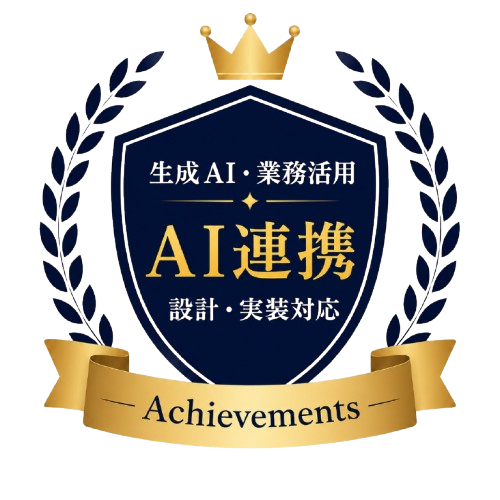
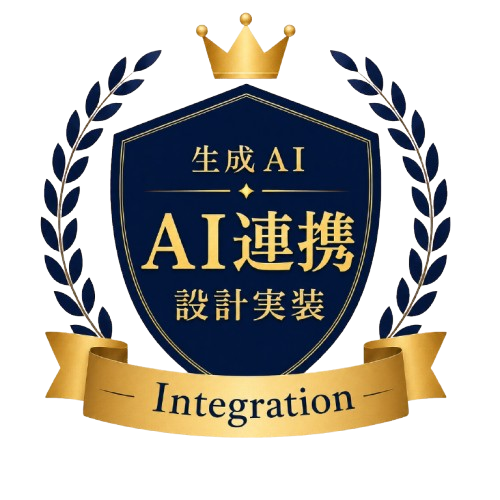
feat/completed firstview

Changed region(s): [[0.06, 0.0, 0.93, 0.9], [0.54, 0.21, 0.63, 0.24], [0.21, 0.78, 0.27, 0.81]]

diff --git a/src/components/sections/Hero.tsx b/src/components/sections/Hero.tsx
@@ -1,6 +1,6 @@
 "use client";
 
-import type { ReactNode, SyntheticEvent } from "react";
+import type { ReactNode } from "react";
 import {
   motion,
   useReducedMotion,
@@ -50,18 +50,6 @@ function Mark({ children }: { children: ReactNode }) {
   );
 }
 
-/**
- * Use the lightweight PNG (~15KB) as the primary source and fall back to the
- * SVG only if the PNG is ever missing. The provided SVGs embed a full-res
- * raster (~940KB each), so the PNG is visually identical but far lighter.
- */
-function pngToSvg(e: SyntheticEvent<HTMLImageElement>) {
-  const img = e.currentTarget;
-  if (img.dataset.fallback) return;
-  img.dataset.fallback = "1";
-  img.src = img.src.replace(/\.png(\?.*)?$/, ".svg");
-}
-
 export function Hero() {
   const prefersReduced = useReducedMotion();
   const { scrollY } = useScroll();
@@ -73,7 +61,7 @@ export function Hero() {
   return (
     <section
       id="top"
-      className="relative isolate overflow-x-hidden"
+      className="relative z-10"
       style={{ background: "var(--hero-surface)" }}
     >
       {/* ===== Hero visual area (clips the person / watermark bleed) ===== */}
@@ -90,34 +78,52 @@ export function Hero() {
               "radial-gradient(ellipse at 65% 40%, black 30%, transparent 78%)",
           }}
         />
-        {/* soft brand glow behind the person */}
+        {/* brand symbol as ONE flat light-grey background shape — the logo mark
+            is used as a mask over a pale blue-grey fill, angled and bleeding off
+            the right / top / bottom edges (no enclosing circle). */}
+        <motion.div
+          aria-hidden
+          style={{
+            y: symbolY,
+            rotate: -12,
+            WebkitMaskImage: "url(/images/logo/ruxeltech-symbol.png)",
+            maskImage: "url(/images/logo/ruxeltech-symbol.png)",
+            WebkitMaskRepeat: "no-repeat",
+            maskRepeat: "no-repeat",
+            WebkitMaskPosition: "center",
+            maskPosition: "center",
+            WebkitMaskSize: "contain",
+            maskSize: "contain",
+          }}
+          className="pointer-events-none absolute -right-[6%] top-[-24%] h-[150%] w-[62%] bg-[linear-gradient(150deg,#eaeff8_0%,#d6e0f1_100%)] md:w-[52%] lg:-right-[4%] lg:w-[46%]"
+        />
+        {/* small accent dots */}
         <div
           aria-hidden
-          className="pointer-events-none absolute right-[-10%] top-[-10%] h-[70%] w-[60%] rounded-full opacity-70 blur-3xl"
-          style={{
-            background:
-              "radial-gradient(circle, var(--brand-tint), transparent 70%)",
-          }}
-        />
+          className="pointer-events-none absolute inset-0 hidden md:block"
+        >
+          <span className="absolute right-[9%] top-[15%] h-3 w-3 rounded-full bg-[var(--brand)]/20" />
+          <span className="absolute right-[40%] top-[9%] h-2 w-2 rounded-full bg-[var(--brand)]/15" />
+          <span className="absolute right-[7%] bottom-[16%] h-2.5 w-2.5 rounded-full bg-[var(--brand)]/15" />
+        </div>
 
-        <div className="relative mx-auto grid max-w-6xl grid-cols-1 gap-8 px-6 pb-12 pt-16 md:pt-20 lg:grid-cols-[1.02fr_0.98fr] lg:items-center lg:gap-6 lg:pb-14 lg:pt-16">
+        <div className="relative mx-auto grid max-w-6xl grid-cols-1 gap-6 px-6 pb-10 pt-12 md:pt-14 lg:grid-cols-[1.2fr_0.8fr] lg:items-end lg:gap-2 lg:pb-10 lg:pt-10">
           {/* ---------- LEFT: copy ---------- */}
           <motion.div
             initial="hidden"
             animate="show"
             variants={container}
-            className="relative z-10 max-w-xl min-w-0"
+            className="relative z-10 max-w-2xl min-w-0"
           >
             {/* speech-bubble label (navy pill with a downward tail) */}
             <motion.div
               variants={fadeUp}
-              className="relative mb-7 inline-flex items-center gap-2 rounded-full bg-[var(--brand-ink)] px-5 py-2.5 text-xs font-semibold text-white shadow-[0_12px_28px_-14px_oklch(0.3_0.09_260/0.6)] md:text-[0.82rem]"
+              className="relative mb-6 inline-flex items-center gap-3 rounded-full bg-[var(--brand-ink)] px-9 py-4 text-base font-semibold text-white shadow-[0_16px_32px_-14px_oklch(0.3_0.09_260/0.6)] md:text-2xl"
             >
-              <span className="h-1.5 w-1.5 rounded-full bg-[var(--brand-bright)]" />
               業務システム・AI連携にお悩みの企業様へ
               <span
                 aria-hidden
-                className="absolute -bottom-1.5 left-9 h-3.5 w-3.5 rotate-45 rounded-[2px] bg-[var(--brand-ink)]"
+                className="absolute -bottom-2 left-12 h-6 w-6 rotate-45 rounded-[3px] bg-[var(--brand-ink)]"
               />
             </motion.div>
 
@@ -137,43 +143,33 @@ export function Hero() {
             {/* emphasis copy — check-circle bullets with highlighted keywords.
                 Icon is absolutely positioned so the text is a normal block that
                 wraps reliably on narrow screens (avoids flex min-width quirks). */}
-            <motion.ul variants={fadeUp} className="mt-6 space-y-3">
-              <li className="relative pl-7">
+            <motion.ul variants={fadeUp} className="mt-7 space-y-4">
+              <li className="relative pl-8">
                 <CheckCircle2
-                  className="absolute left-0 top-[3px] h-5 w-5 text-[var(--brand)]"
+                  className="absolute left-0 top-[3px] h-6 w-6 text-[var(--brand)]"
                   strokeWidth={2.5}
                 />
-                <p className="text-[0.95rem] font-medium leading-relaxed text-[var(--brand-ink)] md:text-base">
+                <p className="text-base font-medium leading-relaxed text-[var(--brand-ink)] md:text-lg">
                   <Mark>30年PM直轄</Mark>で、要件整理から設計・開発まで
                   <Mark>一括支援</Mark>
                 </p>
               </li>
-              <li className="relative pl-7">
+              <li className="relative pl-8">
                 <CheckCircle2
-                  className="absolute left-0 top-[3px] h-5 w-5 text-[var(--brand)]"
+                  className="absolute left-0 top-[3px] h-6 w-6 text-[var(--brand)]"
                   strokeWidth={2.5}
                 />
-                <p className="text-[0.95rem] font-medium leading-relaxed text-[var(--brand-ink)] md:text-base">
+                <p className="text-base font-medium leading-relaxed text-[var(--brand-ink)] md:text-lg">
                   AI連携・業務システム・自動化を<Mark>現場で使える仕組み</Mark>へ
                 </p>
               </li>
             </motion.ul>
 
-            {/* CTAs */}
-            <motion.div
-              variants={fadeUp}
-              className="mt-6 flex flex-col gap-3 sm:flex-row sm:gap-4"
-            >
-              <BrandButton href="#contact">無料で相談する</BrandButton>
-              <BrandButton href="#works" variant="outline">
-                開発実績を見る
-              </BrandButton>
-            </motion.div>
-
-            {/* trust badges — finished badge images (object-contain, transparent) */}
+            {/* trust badges — finished badge images, placed right under the copy
+                (the single primary CTA lives in the bottom CTA box) */}
             <motion.ul
               variants={fadeIn}
-              className="mt-6 flex gap-3 overflow-x-auto pb-1 [-ms-overflow-style:none] [scrollbar-width:none] [&::-webkit-scrollbar]:hidden sm:mt-7 sm:gap-4 sm:overflow-visible sm:pb-0"
+              className="mt-7 flex gap-3 overflow-x-auto pb-1 [-ms-overflow-style:none] [scrollbar-width:none] [&::-webkit-scrollbar]:hidden sm:mt-8 sm:gap-4 sm:overflow-visible sm:pb-0"
             >
               {badges.map((b) => (
                 <motion.li key={b.src} variants={fadeUp} className="flex-none">
@@ -182,77 +178,45 @@ export function Hero() {
                     alt={b.alt}
                     loading="lazy"
                     decoding="async"
-                    className="h-24 w-auto object-contain drop-shadow-[0_6px_12px_oklch(0.3_0.09_260/0.1)] sm:h-28 lg:h-32"
+                    className="h-28 w-auto object-contain drop-shadow-[0_6px_12px_oklch(0.3_0.09_260/0.1)] sm:h-32 lg:h-40"
                   />
                 </motion.li>
               ))}
             </motion.ul>
           </motion.div>
 
-          {/* ---------- RIGHT: person + diagonal symbol motif ---------- */}
-          {/* Adjust person size/position with the `h-*`, `right-*` utilities;
-              adjust the background motif with `w-*`, `-right-*`, `rotate`. */}
-          <div className="relative min-h-[340px] sm:min-h-[400px] lg:min-h-[500px]">
-            {/* soft background panel for depth */}
-            <div
-              aria-hidden
-              className="pointer-events-none absolute right-[-6%] top-[4%] h-[88%] w-[94%] rounded-[46%_54%_48%_52%/56%_44%_56%_44%] bg-[linear-gradient(145deg,#eef3fb_0%,#e2ebf7_100%)]"
-            />
-            {/* giant brand symbol as a diagonal background motif (pale blue-grey) */}
+          {/* ---------- RIGHT: person + circular stat badge ---------- */}
+          {/* The background symbol shape lives at the visual level above. */}
+          <div className="relative min-h-[320px] sm:min-h-[380px] lg:min-h-[430px]">
+            {/* person cutout (transparent, upper-body) */}
             <motion.img
-              aria-hidden
-              src="/images/logo/ruxeltech-symbol.png"
-              onError={pngToSvg}
-              style={{
-                y: symbolY,
-                rotate: -12,
-                filter: "saturate(0.4) brightness(1.22)",
-              }}
-              className="pointer-events-none absolute -top-[8%] -right-[16%] w-[150%] max-w-none opacity-[0.08] lg:-right-[14%] lg:w-[128%]"
-            />
-
-            {/* person cutout (transparent) */}
-            <motion.img
-              src="/images/hero/hero-person-transparent.png"
-              alt="RuxelTechのシステム開発を案内するビジネスパーソン"
+              src="/images/hero/top-woman.png"
+              alt="RuxelTechのシステム開発をご案内するビジネスパーソン"
               fetchPriority="high"
               decoding="async"
               style={{ y: personY }}
-              className="absolute bottom-0 right-0 h-[340px] w-auto drop-shadow-[0_34px_55px_oklch(0.24_0.07_260/0.2)] sm:h-[400px] lg:right-2 lg:h-[520px]"
+              className="absolute bottom-0 right-0 h-[300px] w-auto drop-shadow-[0_34px_55px_oklch(0.24_0.07_260/0.2)] sm:h-[360px] lg:right-0 lg:h-[450px]"
             />
 
-            {/* circular stat badge (speech bubble) near the person */}
-            <div className="absolute left-0 top-6 z-10 flex h-[5.6rem] w-[5.6rem] flex-col items-center justify-center rounded-full bg-white text-center shadow-[0_16px_38px_-14px_oklch(0.3_0.09_260/0.55)] ring-1 ring-[var(--brand)]/15 sm:top-2 lg:left-4 lg:h-[6.6rem] lg:w-[6.6rem]">
-              <span
-                aria-hidden
-                className="absolute inset-1.5 rounded-full border border-dashed border-[var(--brand)]/25"
-              />
-              <span className="relative text-[0.58rem] font-semibold text-[var(--brand-ink)] lg:text-[0.64rem]">
-                IT経験
-              </span>
-              <span className="relative flex items-end font-bold leading-none text-[var(--brand)]">
-                <span className="text-[1.5rem] lg:text-[1.8rem]">30</span>
-                <span className="mb-0.5 text-[0.85rem] lg:text-[0.95rem]">年</span>
-              </span>
-              <span className="relative text-[0.56rem] font-semibold text-[var(--brand-ink)] lg:text-[0.62rem]">
-                PM直轄
-              </span>
-              <span
-                aria-hidden
-                className="absolute -bottom-1 right-7 h-3.5 w-3.5 rotate-45 rounded-[2px] bg-white shadow-[3px_3px_6px_-3px_oklch(0.3_0.09_260/0.4)]"
-              />
-            </div>
+            {/* floating credential card — presented by the person's open palm.
+                Adjust placement/size/tilt with `left-* top-* w-* -rotate-*`. */}
+            <img
+              src="/images/hero/card.png"
+              alt="30年のIT経験。PM直轄で要件整理から品質管理まで対応します。"
+              decoding="async"
+              className="pointer-events-none absolute left-0 top-4 z-10 w-40 -rotate-3 drop-shadow-[0_24px_45px_oklch(0.3_0.09_260/0.22)] sm:top-2 sm:w-48 lg:top-6 lg:w-60"
+            />
           </div>
         </div>
       </div>
 
       {/* ===== Bottom CTA box (overlaps hero bottom into the next section) ===== */}
-      <div className="relative z-20 mx-auto max-w-4xl px-6">
+      <div className="relative z-20 mx-auto max-w-5xl px-6">
         <motion.div
           initial={{ opacity: 0, y: 24 }}
           animate={{ opacity: 1, y: 0 }}
           transition={{ duration: 0.7, ease, delay: 0.4 }}
-          className="-mt-6 -mb-12 flex flex-col items-center gap-5 rounded-3xl border border-[var(--brand)]/10 bg-white p-6 text-center shadow-[0_30px_70px_-30px_oklch(0.24_0.07_260/0.4)] md:flex-row md:justify-between md:gap-8 md:p-7 md:text-left lg:-mt-12 lg:-mb-20"
+          className="-mt-6 -mb-14 flex flex-col items-center gap-5 rounded-3xl border border-[var(--brand)]/10 bg-white p-6 text-center shadow-[0_30px_70px_-30px_oklch(0.24_0.07_260/0.4)] md:flex-row md:justify-between md:gap-8 md:p-7 md:text-left lg:-mt-10 lg:-mb-24"
         >
           <div>
             <p className="text-lg font-bold tracking-tight text-[var(--brand-ink)] md:text-xl">